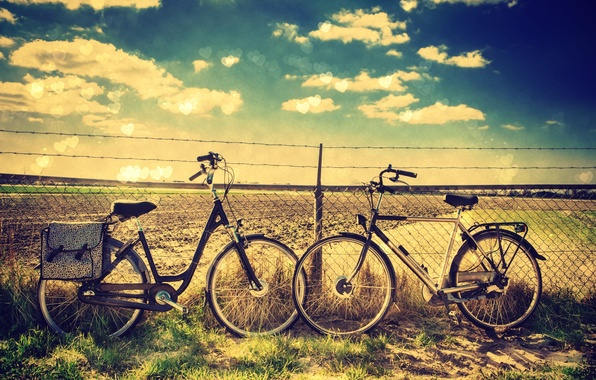
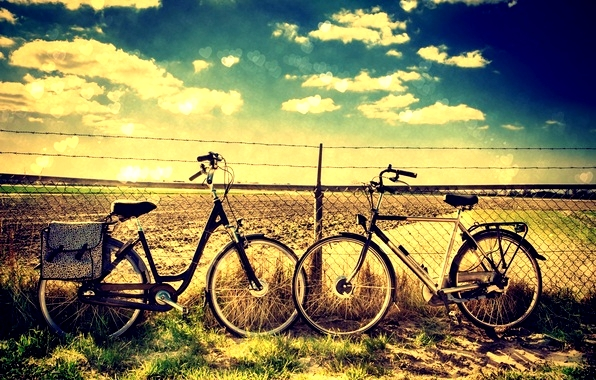
changed menu and background color

diff --git a/index.html b/index.html
@@ -33,8 +33,10 @@
         }
 
             .nav-btn:before {
-                content: "Menu";
+                color: black; 
+				content: "Menu";
                 font-size: 30px;
+				opacity:.6;
             }
     }
 </style>
@@ -42,7 +44,7 @@
     </header>
 
     <nav>
-        <div class="navbar navbar-default navbar-fixed-top animated fadeIn" id="myTopnav">
+        <div class="navbar navbar-default navbar-fixed-top" id="myTopnav">
             <div class="container-fluid">
                 <ul class="nav navbar-nav navbar-left">
                     <li><a id="velocity"> Velocity </a></li>
@@ -80,7 +82,6 @@
     <script>
         $('span.nav-btn').click(function () {
             $('ul.nav').toggle();
-            
         })
         $(window).resize(function () {
             if ($(window).width() > 900) {

diff --git a/style.css b/style.css
@@ -30,7 +30,7 @@ body {
 	color:inherit;
 	padding-top: 48px;
 	padding-bottom: 48px;
-    background-image: url("images/bike-top-background.jpg");
+    background-image: url("images/bike-top-background-dark.jpg");
 	background-repeat: no-repeat;
 	background-size: cover;
 	opacity: 0.8;
@@ -141,6 +141,10 @@ body {
 @media screen and (max-width:900px){
 	.block1 {
 		text-align: center; 
+	}
+	.block2 {
+		margin-top: 80px;
+		margin-bottom: 50px;
 	}
 	.block3 {
 		text-align: center;
